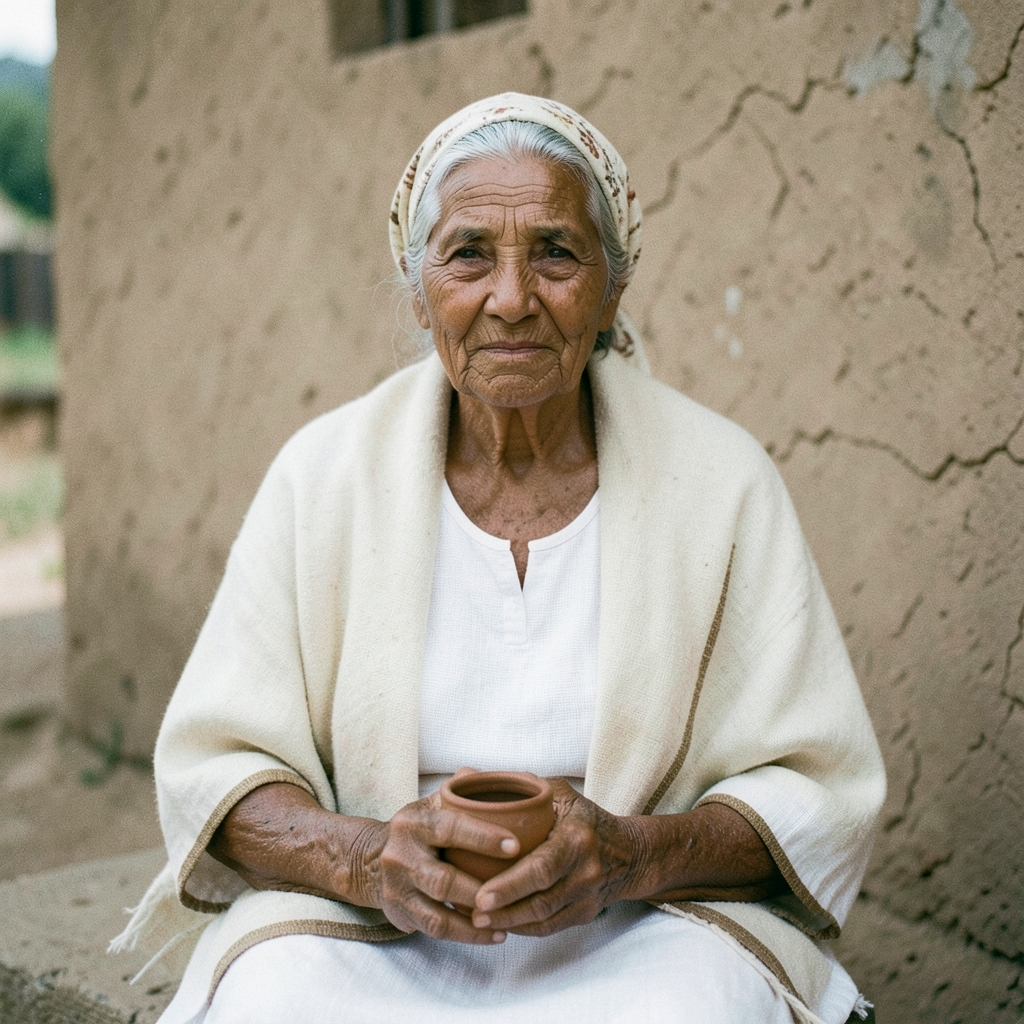
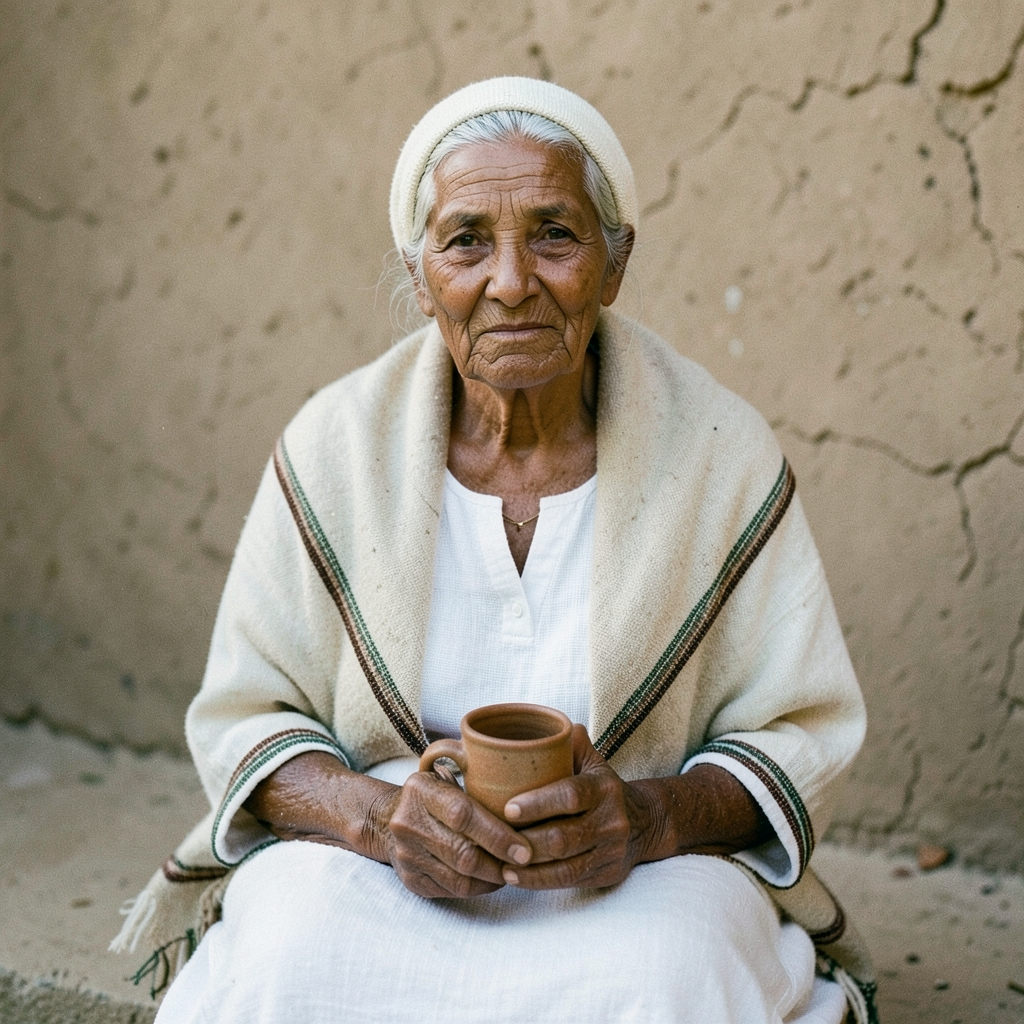
Regenerate three reference portraits to make plan cache-clean

diff --git a/EXPERIMENTS.md b/EXPERIMENTS.md
@@ -123,6 +123,12 @@ Target: **>= 10 controlled experiments** (changing ONE variable at a time, recor
 - **Result:** The first ambience gain (`0.012`) measured **-54.1 dB mean / -42.1 dB peak** in isolation — effectively inaudible, so the hypothesis failed at that value. Raised to `0.06`: **-40.2 dB mean / -28.2 dB peak**, a gentle bed. Rebuilt both finals: 73.0 s, H.264/AAC 48 kHz stereo, 24 fps CFR, **-14.04 LUFS / -0.99 dBTP**, all ten slot means **-20.2 to -16.1 dB**. FFmpeg latencies 4,325 ms and 5,396 ms, both `0_local_ffmpeg`, logged in `runs.jsonl` at 13:36 UTC.
 - **Decision:** Kept the polished version; it changed my mind about "quiet ambience" — a number that looks small in code can be far below audibility after filtering, so the layer is now measured in isolation before judging it. Subtitle legibility and end-card appearance still need the director's eyes (this session cannot view frames); no visual claim is made here.
 
+## EXP-020 — Clearing stale reference portraits (2026-11-25)
+- **Hypothesis:** Regenerating the three unused reference portraits against the locked style block will make `plan` clean without changing the director-approved final edit.
+- **Change:** `py run.py ref-sheet` with the three original seeds (1024, 1025, 1026). Director explicitly approved this 3-call Cloudflare Flux spend; production keyframes use `--no-ref`, so no clip depends on these images.
+- **Result:** Three real calls, cache miss, latencies **13,044 / 11,721 / 14,496 ms**. `plan` went from 29 hits / 9 regenerations to **34 hits / 4 regenerations** — only the four known TTS shots remain. Both finals stayed cache hits, so the approved edit was untouched.
+- **Decision:** Kept. This is a quota-cleanliness fix, not a visual change; it makes the clean-clone one-command test predictable. No new keyframe, clip or export was generated.
+
 
 
 

diff --git a/EXPLAINED.md b/EXPLAINED.md
@@ -79,3 +79,8 @@
 - **Why:** the module's film criteria reward clear narration, accurate subtitles, careful sound and a visible AI end card. None of this needed a model call, so it was cheap to test. My first room-tone setting measured -54 dB — I could not hear it in the numbers — so I raised it and measured again at -40 dB before keeping it (EXP-019).
 - **What it reads/writes and what changed what:** it reads the locked `storyboard.json`, the ten cached clips and WAVs, and the chosen score. It writes `outputs/final/*.mp4`, the `.ass` subtitle files and two small end-card text files. Bumping the assembly "code version" made both exports rebuild; nothing upstream (keyframes, clips, narration, score) was touched, so **zero quota was spent**.
 - **Alternative and risk:** I could have left the film as it was; the risk of changing it is a mix regression or subtitles overflowing the narrow vertical frame. I measured the longest line (587 px inside 608 px) and re-measured loudness (-14.04 LUFS / -0.99 dBTP) and all ten slots. **I still cannot see the pictures**, so the final visual check is yours.
+
+## Clearing the stale reference portraits (2026-11-25)
+- **What you approved:** spend 3 Cloudflare calls once so that `plan` becomes clean. I ran `ref-sheet` immediately instead of waiting for tomorrow.
+- **Why:** the earlier style-block tightening changed the hash of those three portraits while the production keyframes were generated with `--no-ref`, so `plan` kept offering to regenerate images the film never uses. A clean plan makes the one-command test honest.
+- **Result:** three real calls (13.0 / 11.7 / 14.5 s), and `plan` now lists only the four TTS shots. **Nothing downstream changed** — no keyframe, clip, narration or export regenerated, so your approved edit is untouched.

diff --git a/COSTS.md b/COSTS.md
@@ -11,10 +11,10 @@
 
 ## Measured totals (from `runs.jsonl`)
 
-- Real logged records: **84**
-- Non-cache model/FFmpeg calls: **78**
+- Real logged records: **87**
+- Non-cache model/FFmpeg calls: **81**
 - Failed calls: **7**
-- Total logged latency: **721,360 ms** (12.0 min)
+- Total logged latency: **760,621 ms** (12.7 min)
 
 ### By stage
 
@@ -25,7 +25,7 @@
 | music | 1 | 1 | 0 | 0 | 0_cache_hit x1, 1_kaggle_acestep_call x1 |
 | narration | 18 | 5 | 2 | 68,368 | 0_cache_hit x5, 1_gemini_tts_call x16, 1_gemini_tts_call_failed x2 |
 | radio_cut | 1 | 0 | 0 | 2,967 | 0_local_ffmpeg x1 |
-| reference_sheet | 6 | 0 | 0 | 59,005 | 1_cloudflare_flux_call x6 |
+| reference_sheet | 9 | 0 | 0 | 98,266 | 1_cloudflare_flux_call x9 |
 | script | 5 | 0 | 4 | 316,424 | 1_gemini_script_call x1, 1_gemini_script_call_failed x4 |
 | shots | 11 | 0 | 0 | 15,870 | 0_local_ffmpeg x11 |
 | smoke_flux | 1 | 0 | 0 | 8,846 | 1_cloudflare_flux_call x1 |
@@ -38,7 +38,7 @@
 
 | Model | Calls | Latency (ms) |
 | --- | --- | --- |
-| @cf/black-forest-labs/flux-2-klein-4b | 22 | 216,450 |
+| @cf/black-forest-labs/flux-2-klein-4b | 25 | 255,711 |
 | gemini-3.8-flash | 2 | 213,444 |
 | gemini-3.8-flash-tts | 18 | 73,788 |
 | ffmpeg-9.1 | 13 | 70,150 |
@@ -83,9 +83,9 @@
 | reference_sheet | ref_01 | 1 | 9,064 |
 | reference_sheet | ref_02 | 1 | 10,286 |
 | reference_sheet | ref_03 | 1 | 9,296 |
-| reference_sheet | ref_real_seed_01 | 1 | 8,503 |
-| reference_sheet | ref_real_seed_02 | 1 | 11,422 |
-| reference_sheet | ref_real_seed_03 | 1 | 10,434 |
+| reference_sheet | ref_real_seed_01 | 2 | 21,547 |
+| reference_sheet | ref_real_seed_02 | 2 | 23,143 |
+| reference_sheet | ref_real_seed_03 | 2 | 24,930 |
 | script | all | 5 | 316,424 |
 | shots | shot_01 | 1 | 1,417 |
 | shots | shot_02 | 2 | 2,901 |
